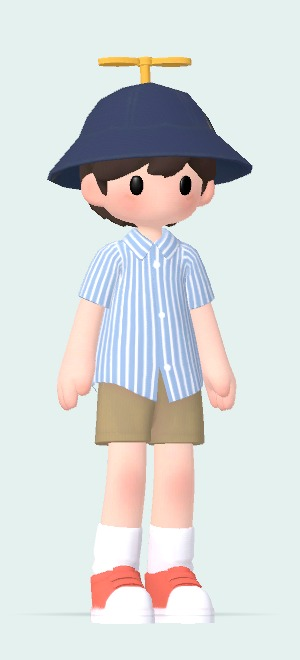
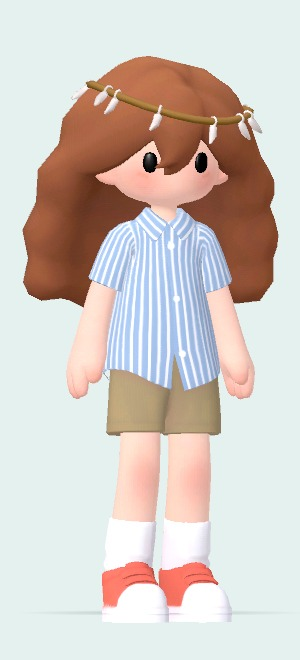
art(344): Nadia look C card and review sheets (drops placeholder propeller cap)

diff --git a/docs/design/nadia-look-344-2026-10-27/README.md b/docs/design/nadia-look-344-2026-10-27/README.md
@@ -1,0 +1,19 @@
+# SGODOT-344 · Nadia resident look C (2026-10-27)
+
+Nadia's slots in `assets/p0/outpost_npcs.json` still carried the placeholder `hairhat70`
+(Propeller Cap) from e82ba3ec (2026-10-10), so the market 3D NPC and her baked card both
+wore it. Diagnosis: SGODOT-344 comment 3f4dd001.
+
+Candidates (current, A–D, with Mei and Theo of the same market for reference) were rendered
+on the shared keeper-portrait stage with `tools/art/bake_resident_portraits.gd`
+(`looks-candidates.json` → `candidates.png`; Plane 344 107b8bff). The UI director picked
+**C** (344 fd484cb7): `hairhat41_npc_auburn` + `cloth1_1` + `shoes2` (`looks-c.json`).
+The apron options read as a produce stall and match Mei's outfit.
+
+- `before-after.png`: current card vs look C.
+- Runtime files: `assets/p0/art/residents/nadia_card.jpg` and the `nadia` entry of
+  `portrait_crops.json` (stamp [81,46,165,207], face [84,50,160,160]).
+- The `outpost_npcs.json` slots change lands from the resident programmer and merges together
+  with the farm-dev integration.
+- Follow-up: a dedicated baker hat and apron (npc_only parts, small-prop flow) to match the
+  2D portrait RES-NADIA.
